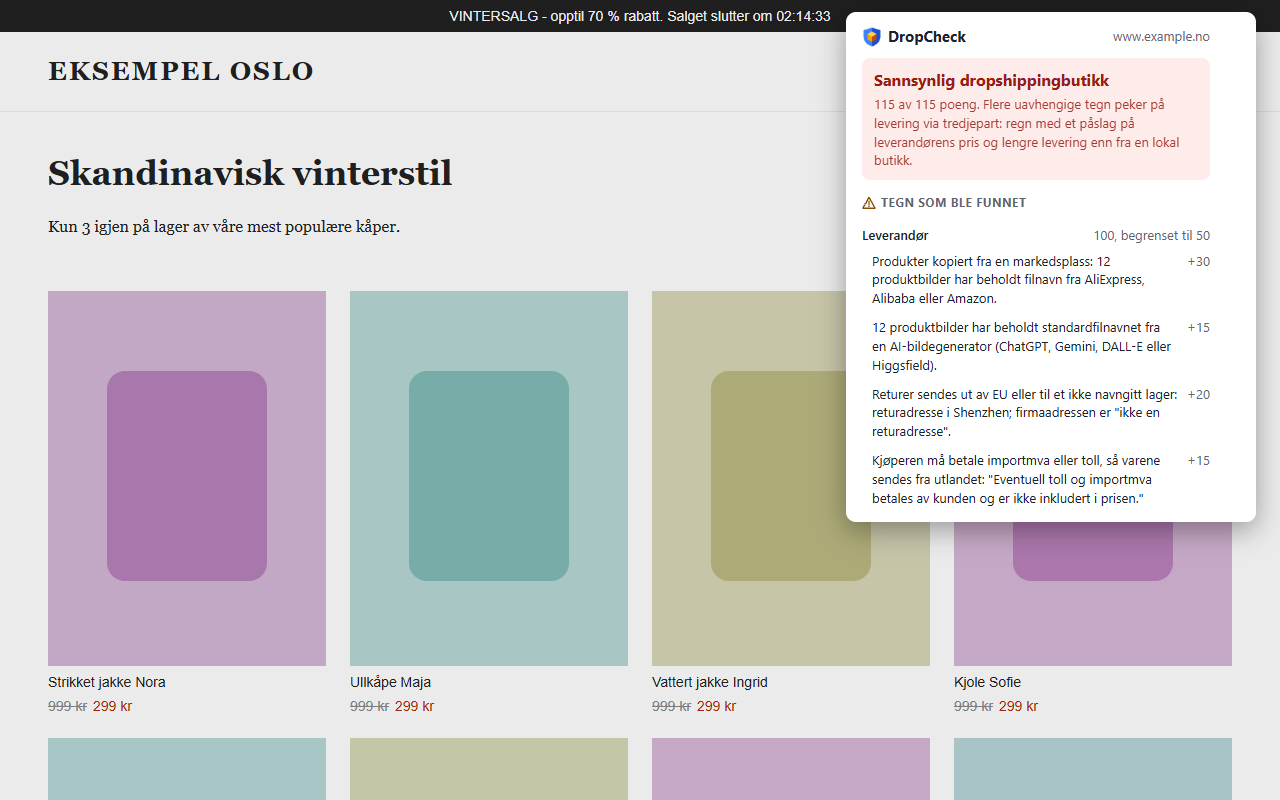
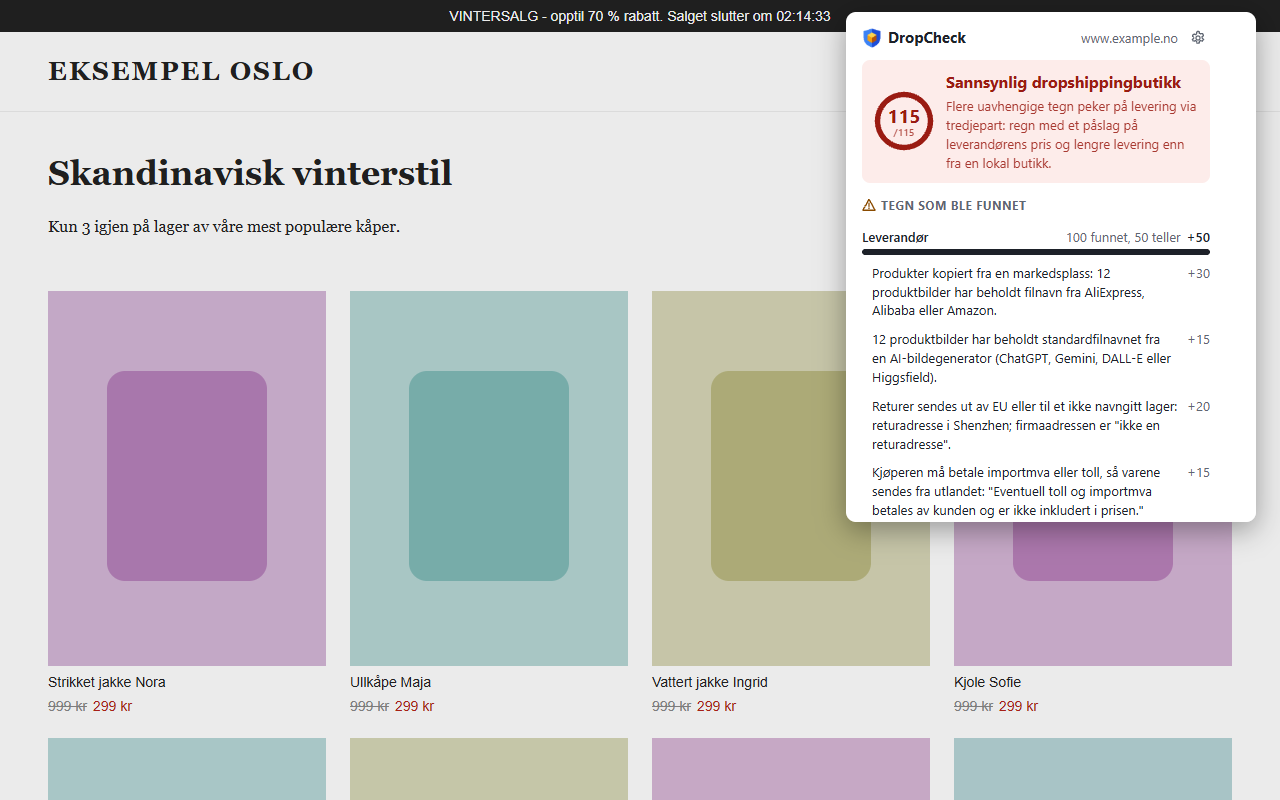
Show popup screenshots on the website and make the download button blue
Regenerate the store screenshots for the 0.7.0 popup and copy them to site/screenshots/ in each language. The red button looked like a warning.

diff --git a/scripts/store-screenshots.js b/scripts/store-screenshots.js
@@ -1,5 +1,6 @@
 // Renders the Chrome Web Store graphics into store/screenshots/:
 //   screenshot-dropshipper.png, screenshot-honest.png (1280x800), promo-small.png (440x280)
+// and copies the two screenshots to site/screenshots/<en|sv|nb>/ for the website.
 //
 //   npm run store-screenshots                   English, Swedish shops
 //   npm run store-screenshots -- --lang sv      Swedish, into store/screenshots/sv/
@@ -9,7 +10,7 @@
 // www.example.se, keramik.example.se, www.example.no and keramikk.example.no (and the
 // Shopify CDN) is answered here, so no real shop is contacted or shown. The extension runs from a temporary copy with automatic
 // scanning granted, as in eval/run.js, and the popup is opened with chrome.action.openPopup().
-import { cpSync, mkdirSync, mkdtempSync, readFileSync, rmSync, writeFileSync } from "node:fs";
+import { copyFileSync, cpSync, mkdirSync, mkdtempSync, readFileSync, rmSync, writeFileSync } from "node:fs";
 import os from "node:os";
 import path from "node:path";
 import { fileURLToPath } from "node:url";
@@ -25,6 +26,7 @@ if (LANG !== null && !isLanguage(LANG)) {
   process.exit(1);
 }
 const OUT = path.join(ROOT, "store", "screenshots", ...(LANG ? [LANG] : []));
+const SITE_OUT = path.join(ROOT, "site", "screenshots", LANG || "en");
 const DAY = 86400000;
 const iso = daysAgo => new Date(Date.now() - daysAgo * DAY).toISOString();
 
@@ -322,6 +324,9 @@ async function main() {
     if (LANG) await probe.evaluate((key, lang) => chrome.storage.local.set({ [key]: lang }), LANGUAGE_KEY, LANG);
     for (const [host, shop] of Object.entries(SHOPS)) await shootShop(browser, worker, probe, host, shop);
     await shootPromo(browser);
+    mkdirSync(SITE_OUT, { recursive: true });
+    for (const shop of Object.values(SHOPS)) copyFileSync(path.join(OUT, shop.file), path.join(SITE_OUT, shop.file));
+    console.log(`copied to ${path.relative(ROOT, SITE_OUT)}`);
   } finally {
     await browser.close();
     rmSync(extensionDir, { recursive: true, force: true });

diff --git a/site/sv/index.html b/site/sv/index.html
@@ -190,6 +190,11 @@
   svenska och norska nätbutiker.</p>
   <nav class="lang" aria-label="Språk"><a href="../" hreflang="en" lang="en">English</a><span aria-current="page">Svenska</span><a href="../no/" hreflang="nb" lang="nb">Norsk</a></nav>
   <a class="button" href="https://github.com/Hinneman/dropcheck/releases/latest">Ladda ner senaste versionen</a>
+  <figure class="shot">
+    <img src="../screenshots/sv/screenshot-dropshipper.png" width="1280" height="800"
+      alt="DropCheck-fönstret på en påhittad klädbutik: trolig dropshippingbutik, 115 poäng, med tecknen som hittades.">
+    <figcaption>DropCheck på en påhittad butik som säljer vidare varor från en marknadsplats.</figcaption>
+  </figure>
 </header>
 
 <main>
@@ -310,6 +315,12 @@ för att klassas som trolig dropshippingbutik.</p>
 <li class="mixed"><strong>Blandade tecken</strong> (Mixed signals) - 30 till 59 poäng. Värt att titta närmare på.</li>
 <li class="none"><strong>Inga tecken hittades</strong> (No dropshipping signals found) - under 30 poäng.</li>
 </ul>
+
+<figure class="shot">
+  <img src="../screenshots/sv/screenshot-honest.png" width="1280" height="800" loading="lazy"
+    alt="DropCheck-fönstret på en påhittad keramikverkstad: inga tecken hittades, 0 poäng.">
+  <figcaption>DropCheck på en påhittad keramikverkstad som gör sina egna varor: inga tecken hittades.</figcaption>
+</figure>
 
 <p>Plattformen butiken körs på, recensionsappar och betallogotyper ger aldrig poäng: de visas bara
 som sammanhang. Text som begränsar tull till beställningar utomlands, eller en svensk eller norsk

diff --git a/site/no/index.html b/site/no/index.html
@@ -182,6 +182,11 @@
   og svenske nettbutikker.</p>
   <nav class="lang" aria-label="Språk"><a href="../" hreflang="en" lang="en">English</a><a href="../sv/" hreflang="sv" lang="sv">Svenska</a><span aria-current="page">Norsk</span></nav>
   <a class="button" href="https://github.com/Hinneman/dropcheck/releases/latest">Last ned siste versjon</a>
+  <figure class="shot">
+    <img src="../screenshots/nb/screenshot-dropshipper.png" width="1280" height="800"
+      alt="DropCheck-vinduet på en oppdiktet klesbutikk: sannsynlig dropshippingbutikk, 115 poeng, med tegnene som ble funnet.">
+    <figcaption>DropCheck på en oppdiktet butikk som videreselger varer fra en markedsplass.</figcaption>
+  </figure>
 </header>
 
 <main>
@@ -297,6 +302,12 @@ gratis e-postadresse teller fortsatt bare som svak identitet. En butikk må vise
 <li class="mixed"><strong>Blandede tegn</strong> (Mixed signals) - 30 til 59 poeng. Verdt å se nærmere på.</li>
 <li class="none"><strong>Ingen tegn funnet</strong> (No dropshipping signals found) - under 30 poeng.</li>
 </ul>
+
+<figure class="shot">
+  <img src="../screenshots/nb/screenshot-honest.png" width="1280" height="800" loading="lazy"
+    alt="DropCheck-vinduet på et oppdiktet keramikkverksted: ingen tegn funnet, 0 poeng.">
+  <figcaption>DropCheck på et oppdiktet keramikkverksted som lager egne varer: ingen tegn funnet.</figcaption>
+</figure>
 
 <p>Plattformen butikken kjører på, anmeldelsesapper og betalingslogoer gir aldri poeng: de vises
 bare som sammenheng. Tekst som begrenser toll til bestillinger fra utlandet, eller en norsk eller

diff --git a/site/index.html b/site/index.html
@@ -212,6 +212,11 @@
   Norwegian shops.</p>
   <nav class="lang" aria-label="Language"><span aria-current="page">English</span><a href="sv/" hreflang="sv" lang="sv">Svenska</a><a href="no/" hreflang="nb" lang="nb">Norsk</a></nav>
   <a class="button" href="https://github.com/Hinneman/dropcheck/releases/latest">Download the latest version</a>
+  <figure class="shot">
+    <img src="screenshots/en/screenshot-dropshipper.png" width="1280" height="800"
+      alt="The DropCheck popup on a fictional fashion shop: likely dropshipper, 115 points, with the signs it found.">
+    <figcaption>DropCheck on a made-up shop that resells products from a marketplace.</figcaption>
+  </figure>
 </header>
 
 <main>
@@ -336,6 +341,12 @@ than one direction to be called a likely dropshipper.</p>
 <li class="mixed"><strong>Mixed signals</strong> - 30 to 59 points. Worth a closer look.</li>
 <li class="none"><strong>No dropshipping signals found</strong> - under 30 points.</li>
 </ul>
+
+<figure class="shot">
+  <img src="screenshots/en/screenshot-honest.png" width="1280" height="800" loading="lazy"
+    alt="The DropCheck popup on a fictional ceramics workshop: no signs found, 0 points.">
+  <figcaption>DropCheck on a made-up workshop that makes its own goods: nothing found.</figcaption>
+</figure>
 
 <p>The platform a shop runs on, its review apps or payment logos never score: they are shown
 as context only. Wording that limits customs to orders abroad, or a Swedish or Norwegian return

diff --git a/site/style.css b/site/style.css
@@ -4,7 +4,7 @@
   --muted: #5d5b57;
   --line: #e3e0da;
   --card: #ffffff;
-  --accent: #b42318;
+  --accent: #1d4ed8;
   --link: #1d4ed8;
   --likely: #b42318;
   --mixed: #b54708;
@@ -17,7 +17,7 @@
     --muted: #a8a59f;
     --line: #34332f;
     --card: #1f1f1d;
-    --accent: #f97066;
+    --accent: #8ab4ff;
     --link: #8ab4ff;
     --likely: #f97066;
     --mixed: #fdb022;
@@ -49,6 +49,9 @@ h3 { margin: 1.6rem 0 0.4rem; font-size: 1.1rem; }
   background: var(--accent); color: #fff; border-radius: 6px; text-decoration: none; font-weight: 600;
 }
 @media (prefers-color-scheme: dark) { .button { color: #161615; } }
+.shot { margin: 1.6rem 0 0; }
+.shot img { display: block; width: 100%; height: auto; border: 1px solid var(--line); border-radius: 6px; }
+.shot figcaption { margin-top: 0.4rem; color: var(--muted); font-size: 0.9rem; }
 table { width: 100%; border-collapse: collapse; margin: 0.8rem 0; font-size: 0.95rem; }
 th, td { text-align: left; vertical-align: top; padding: 0.5rem 0.6rem; border-bottom: 1px solid var(--line); }
 th { font-weight: 600; }
